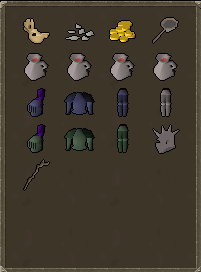
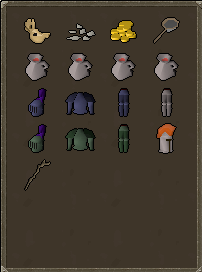
update guide

diff --git a/src/pages/GuidePage.jsx b/src/pages/GuidePage.jsx
@@ -840,7 +840,7 @@ export default function GuidePage() {
                   { text: 'Buy a Stew, 8 Jugs of wine, moon-lite and a Cup of tea from The Flaming Arrow', gold: -30 },
                   { text: 'Drink some moon-lite', tasks: ['Drink some moon-lite'] },
                   { text: 'Give Oli some Stew', tasks: ['Give Oli some Stew'] },
-                  { text: 'Buy a Green cape from Floria\'s Fashion and equip it', gold: -32 },
+                  { text: 'Buy a Green cape and White apron from Floria\'s Fashion and equip it', gold: -32 },
                   { text: <><b style={{whiteSpace: 'nowrap'}}>Bank 1:</b> Bank at Fortis west bank, withdraw coins, Knife, Bucket, 1 Cake, starting runes and starting bow (and Bronze pickaxe and Bronze axe if your relic isn't Barbarian Gathering)</> },
                 ]} />
               </div>
@@ -1192,7 +1192,7 @@ export default function GuidePage() {
                     'Mithril full helm, Mithril platebody and Mithril platelegs',
                     'Steel platelegs',
                     'Adamant full helm, Adamant platebody and Adamant platelegs',
-                    'Spiny helmet and Dramen staff',
+                    'Tyras Helm and Dramen staff',
                   ]},
                 ]} />
               </div>
@@ -1203,6 +1203,8 @@ export default function GuidePage() {
             </div>
             <CheckList id="t3-prayer" checked={guideChecked} onToggle={handleToggle} items={[
               'Quetzal to Tal Teklan',
+              { text: 'Buy a Purple dye and Green dye from Dyes to Die For to the west', gold: -0 },
+              { text: 'Unequip your cape, dye it purple, then dye it green again', tasks: ['Dye a cape Purple'] },
               'Restore 5 Prayer Points at an Altar',
               { type: 'note', text: 'If you skipped all optional tasks, you would unlock Karamja now.' },
               'Buy the following runes: 500 Mind rune and Chaos rune; 800 Nature rune; 1500 Air, Water, Earth and Fire runes; 100 Cosmic rune and 50 Death runes',
@@ -1210,7 +1212,7 @@ export default function GuidePage() {
               'Keep at least 6 Blue dragon hide for a task later',
               { text: 'Cast Low Level Alchemy between hits on Nature rune when you reach 21 Magic', tasks: ['Cast Low Level Alchemy'] },
               'This should get you 36 Magic and 33 Defence',
-              { text: 'When you reach 5 Defence, equip Steel platelegs, Spiny helmet and alch them', tasks: ['Equip some Steel armour'] },
+              { text: 'When you reach 5 Defence, equip Steel platelegs, Tyras Helm and alch them', tasks: ['Equip some Steel armour', 'Equip a Tyras helm'] },
               'When you reach 20 Defence, equip Mithril full helm, Mithril platebody and Mithril platelegs and alch them',
               'When you reach 30 Defence, equip Adamant full helm, Adamant platebody and Adamant platelegs — keep this',
               { text: 'Equip a Full Adamant Set', tasks: ['Equip a Full Adamant Set'] },
